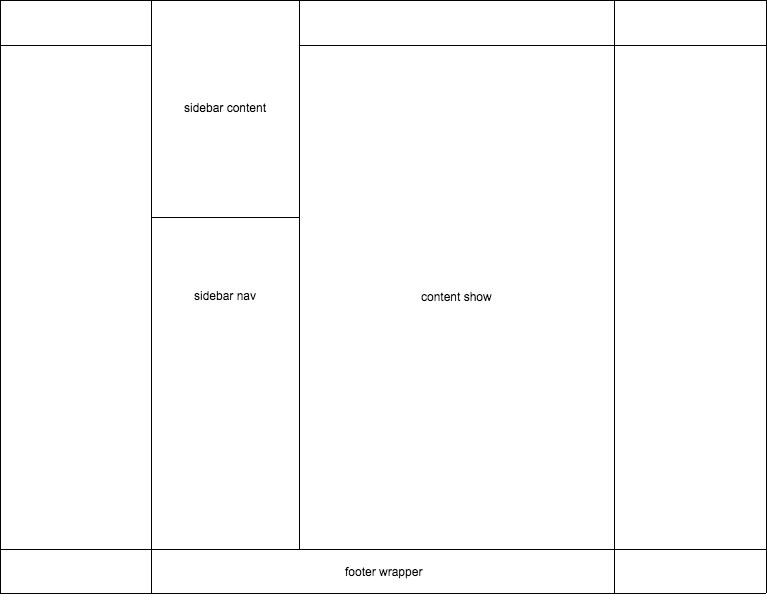
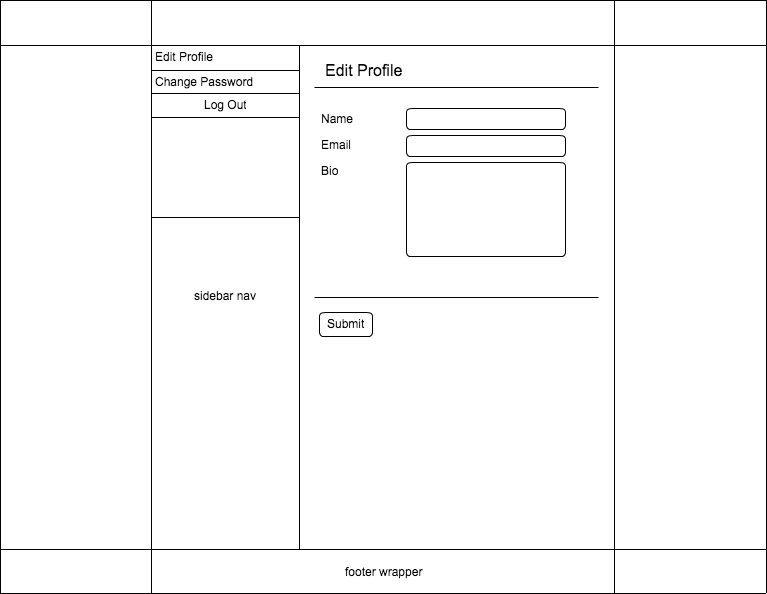
Update schema, phases and wireframe edit page.

diff --git a/README.md b/README.md
@@ -15,11 +15,11 @@ including:
 -authorization
 -posting photos
 -viewing other user's photos
--'following' other users
+-following other users
 -photo feed for followed users
 -adding comments to photos
--direct messaging
--premium styling
+-liking photos
+-user/tag search
 
 FresherNote is a web application inspired by Evernote built using Ruby on Rails
 and React.js. FresherNote allows users to:
@@ -33,26 +33,27 @@ and React.js. FresherNote allows users to:
 
 ## Implementation Timeline
 
-### Phase 1: user auth, routes, models and api
+### Phase 1: user auth, routes, models and api (2 days)
 I will design landing page, the user signup/signin, models and api for the site, and make
 make sensible routes. Then I will design an api for pulling information
-from the database
+from the database.
 
 [Details][phase-one]
 
-## Phase 2: Comments, follow list, UI
-In this phase I will create the comment system, add a follow list and
-complete the fancy UI stuff using a flux architecture.  ## details of specifics
-in regard to UI stuff here ##. ## more specifics about comments and follow list##.
-Addintionally, I will add minimal styling in CSS here and use proper semantic tags
-and group things in classes.
+## Phase 2: Comments, follows, likes (3 days)
+In this phase I will make ability for the user to create a new post, and have
+the ability for users to comment on posts. Then I will let a user to follow
+another user. When the user follows the other user, the other user's
+recent posts will show up in their index feed. Additionally, I will add
+minimal styling in CSS here and proper semantic tags and group things in classes.
 
-## Phase 3: Location tagging
+## Phase 3: Location tagging (2 days)
 When users have the ability to make new posts, they should also have the ability
 to add a location for where the photo was taken. When a user types in some
 location, it should have autocomplete suggestions for locations already
 in the system. Afterwards, the location show page should populate with posts
-that have been tagged at that location.
+that have been tagged at that location, and the post show page should have a
+link to the location index page.
 
 ## Phase 5? Styling, bug fixing and refactoring
 This is a phase where i will make it look really good and optimize it a little
@@ -71,6 +72,8 @@ bit, and fix some bugs that have been bothering me.
 - [ ] Prettify transitions
 - [ ] Tagging people in photos
 - [ ] Direct messaging
+- [ ] Edit password
+- [ ] Load more (infinite scrolling)
 
 [phase-one]: ./docs/phases/phase1.md
 [phase-two]: ./docs/phases/phase2.md

diff --git a/docs/schema.md b/docs/schema.md
@@ -11,28 +11,29 @@ comment     | text      | not null
 column name | data type | details
 ------------|-----------|-----------------------
 id          | integer   | not null, primary key
-user_id     | integer   | not null
-post_id     | integer   | not null
+user_id     | integer   | not null, indexed
+post_id     | integer   | not null, indexed
 
 ## tags
 column name | data type | details
 ------------|-----------|-----------------------
 id          | integer   | not null, primary key
-post_id     | integer   | not null
+post_id     | integer   | not null, indexed
+name        | string    | not null, indexed
 
 ## comments
 column name | data type | details
 ------------|-----------|-----------------------
 id          | integer   | not null, primary key
-post_id     | integer   | not null
+post_id     | integer   | not null, indexed
 content     | text      | not null
 
 ## follows
 column name | data type | details
 ------------|-----------|-----------------------
 id          | integer   | not null, primary key
-follower_id | integer   | not null
-user_id     | integer   | not null
+follower_id | integer   | not null, indexed
+user_id     | integer   | not null, indexed
 
 ## users
 column name     | data type | details
@@ -41,4 +42,5 @@ id              | integer   | not null, primary key
 username        | string    | not null, indexed, unique
 password_digest | string    | not null
 session_token   | string    | not null, indexed, unique
+profile_pic     | string    | not null
 bio             | text      |

diff --git a/docs/phases/phase1.md b/docs/phases/phase1.md
@@ -1,20 +1,20 @@
-# Phase 1: User Authentication, Note Model and JSON API
+# Phase 1: user auth, routes, post model and api (2 days)
 
 ## Rails
 ### Models
 * User
-* Note
+* Post
 
 ### Controllers
 * UsersController (create, new)
 * SessionsController (create, new, destroy)
-* Api::NotesController (create, destroy, index, show, update)
+* Api::PostsController (create, destroy, index, show, update)
 
 ### Views
 * users/new.html.erb
 * session/new.html.erb
-* notes/index.json.jbuilder
-* notes/show.json.jbuilder
+* posts/index.json.jbuilder
+* posts/show.json.jbuilder
 
 ## Flux
 ### Views (React Components)
